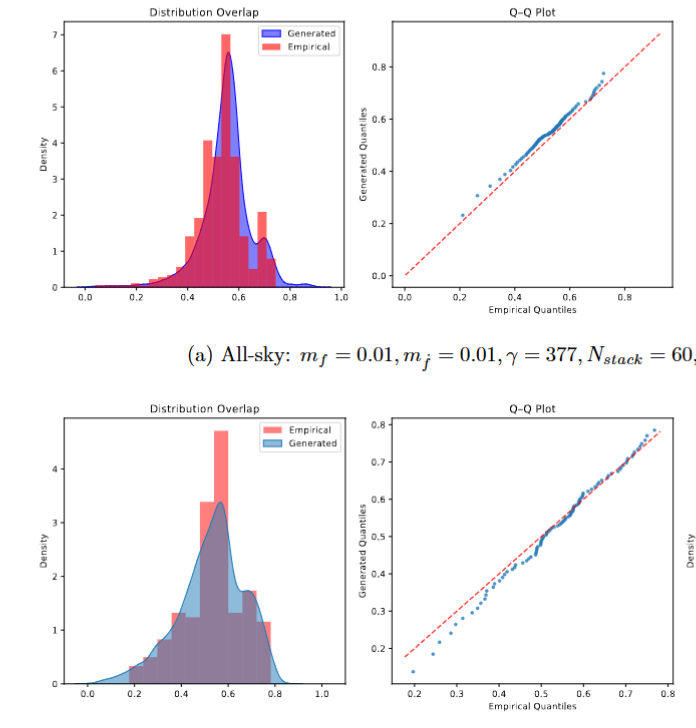
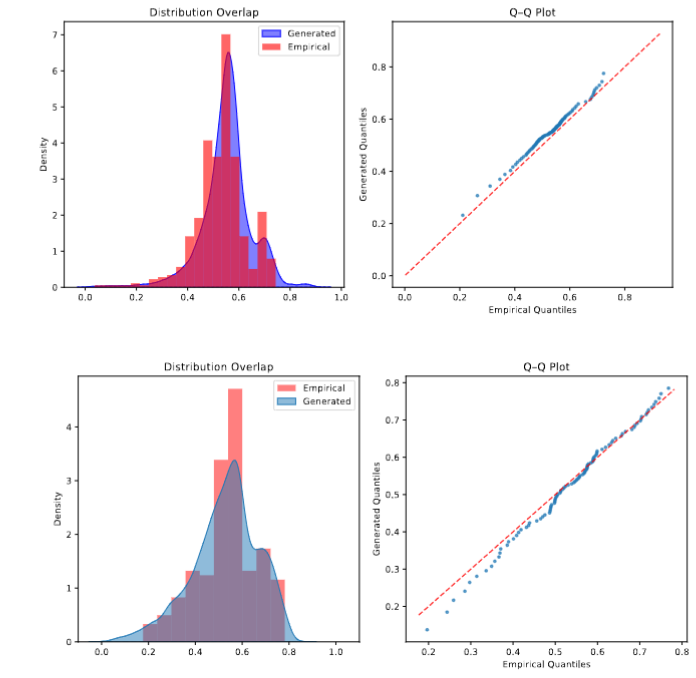
add

diff --git a/index.html b/index.html
@@ -394,8 +394,8 @@
                           <img width="600"
                                height="338"
                                src="img/image82.jpg"
-                               alt="Love Home, a rescue program for stray cats and dogs">
-                          <figcaption>Love Home, a rescue program for stray cats and dogs</figcaption>
+                               alt="Love Home, a rescue program for stray cats and dogs (left second person)">
+                          <figcaption>Love Home, a rescue program for stray cats and dogs (left second person)</figcaption>
                         </figure>
                       
                         <figure>
